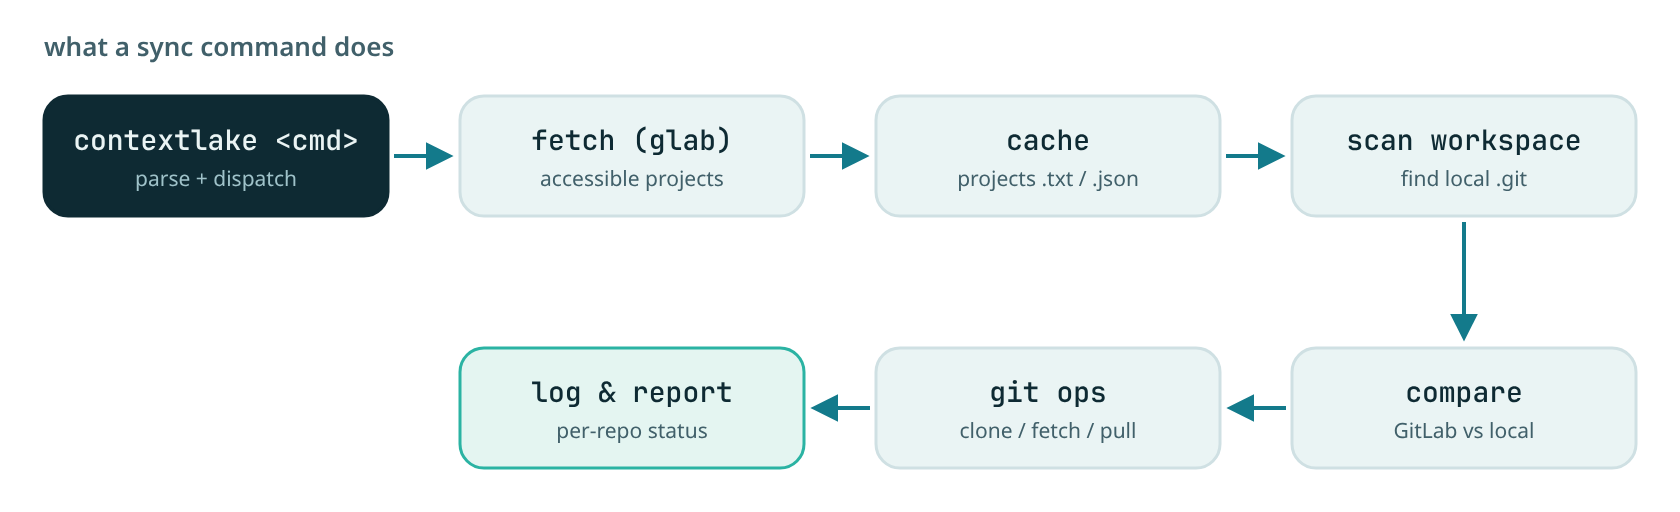
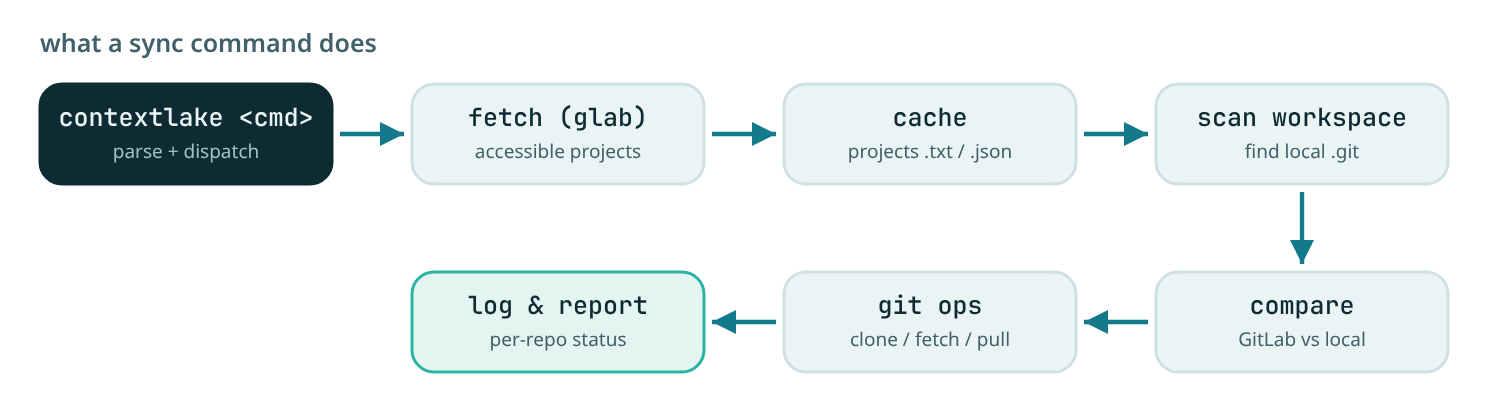
docs(internals): compact data-flow diagram, crisp explicit arrowheads
Smaller chips and a tighter layout (the wide version overwhelmed the
page), and replace the marker-based arrows with explicit filled-triangle
heads so direction reads cleanly at the display size. Show at 600px.

diff --git a/docs/internals.md b/docs/internals.md
@@ -47,7 +47,7 @@ each command in the [Usage guide](usage.md) maps onto one group:
 ### Data flow
 
 <p align="center">
-  <img src="https://raw.githubusercontent.com/sayak-sarkar/contextlake/main/docs/img/data-flow.png" alt="Sync data flow: a contextlake command is parsed and dispatched, then fetches the accessible projects via glab, caches them, scans the workspace for local .git repos, compares GitLab vs local, runs git operations (clone/fetch/pull/switch), and logs a per-repo report." width="820">
+  <img src="https://raw.githubusercontent.com/sayak-sarkar/contextlake/main/docs/img/data-flow.png" alt="Sync data flow: a contextlake command is parsed and dispatched, then fetches the accessible projects via glab, caches them, scans the workspace for local .git repos, compares GitLab vs local, runs git operations (clone/fetch/pull/switch), and logs a per-repo report." width="600">
 </p>
 
 ### Concurrency Model
